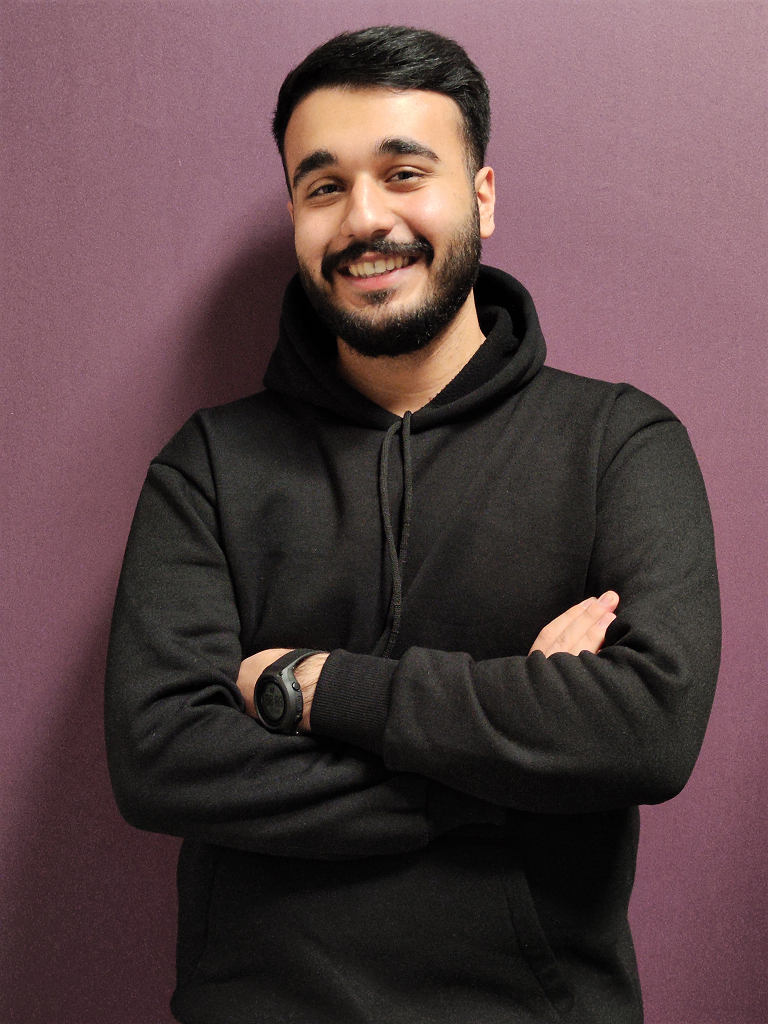
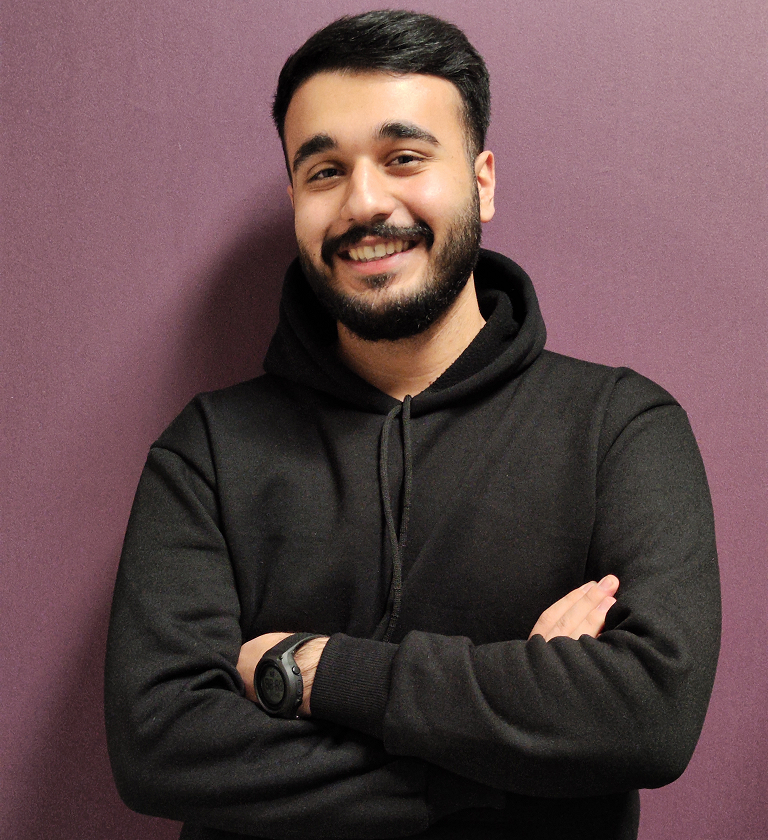
update the img and update the megavision team website linke

diff --git a/index.html b/index.html
@@ -365,7 +365,7 @@
                         <h3 class="resume-title">Professional Experience</h3>
                         <div class="resume-item">
                             <h4>Co-Founder & Computer Vision Developer at 
-                                <span style="color: chocolate;">Mega Vision Team</span></h4>
+                                <a style="color: chocolate;" target="_blank" href="https://mega-vision.ir/">Mega Vision Team</a></h4>
                             <h5>Nov, 2022 - Present</h5>
                             <p><em>Hybrid, Part Time</em></p>
                             <ul>
